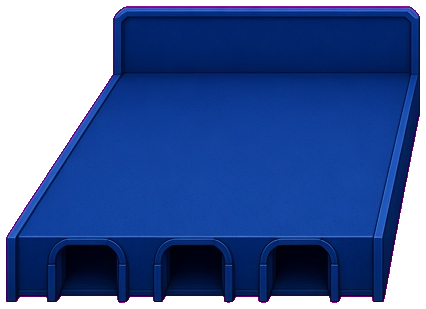
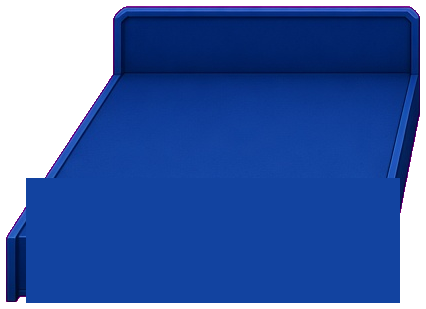
Solid tribune fronts, drop under-block corridor shadows
Patch tribune PNGs to remove baked arch tunnels. Remove the dark
ellipse/glow wash under blocks that read as exit corridors. Attack
lanes still span the full strip between Bau rows.

Changed region(s): [[0.061, 0.5534, 0.946, 0.9903], [0.061, 0.5534, 0.1221, 0.7282]]

diff --git a/game/src/game/render.ts b/game/src/game/render.ts
@@ -276,24 +276,12 @@ function drawBlocks(
 
     const tribSrc = tribuneIconPath(b.id);
     // Cell already native-aspect packed — pad 0 so faces stay 0.5% apart
+    // Tribune assets have solid fronts (no arch tunnels); exit pathing unchanged.
     const drew = drawIcon(ctx, tribSrc, left, top, bw, bh, 0);
-    const face =
-      b.id === 0 ? "#1e40af" : b.id === 2 ? "#b91c1c" : "#57534e";
     if (!drew) {
-      ctx.fillStyle = face;
-      roundRect(ctx, left, top, bw, bh, 18);
-      ctx.fill();
-    } else {
-      // Cover baked arch tunnels on the tribune front — exit pathing stays.
-      const coverH = bh * 0.28;
-      const coverY = top + bh * 0.72;
-      ctx.fillStyle = face;
-      roundRect(ctx, left + bw * 0.06, coverY, bw * 0.88, coverH, 6);
-      ctx.fill();
-      // Thin platform lip so the block still reads as a solid stand edge
       ctx.fillStyle =
-        b.id === 0 ? "#3b82f6" : b.id === 2 ? "#ef4444" : "#a8a29e";
-      roundRect(ctx, left + bw * 0.05, coverY - bh * 0.02, bw * 0.9, bh * 0.045, 3);
+        b.id === 0 ? "#2563eb" : b.id === 2 ? "#dc2626" : "#64748b";
+      roundRect(ctx, left, top, bw, bh, 18);
       ctx.fill();
     }
     // Keine Heim/Neutral/Gäste-Überschriften auf den Tribünen
